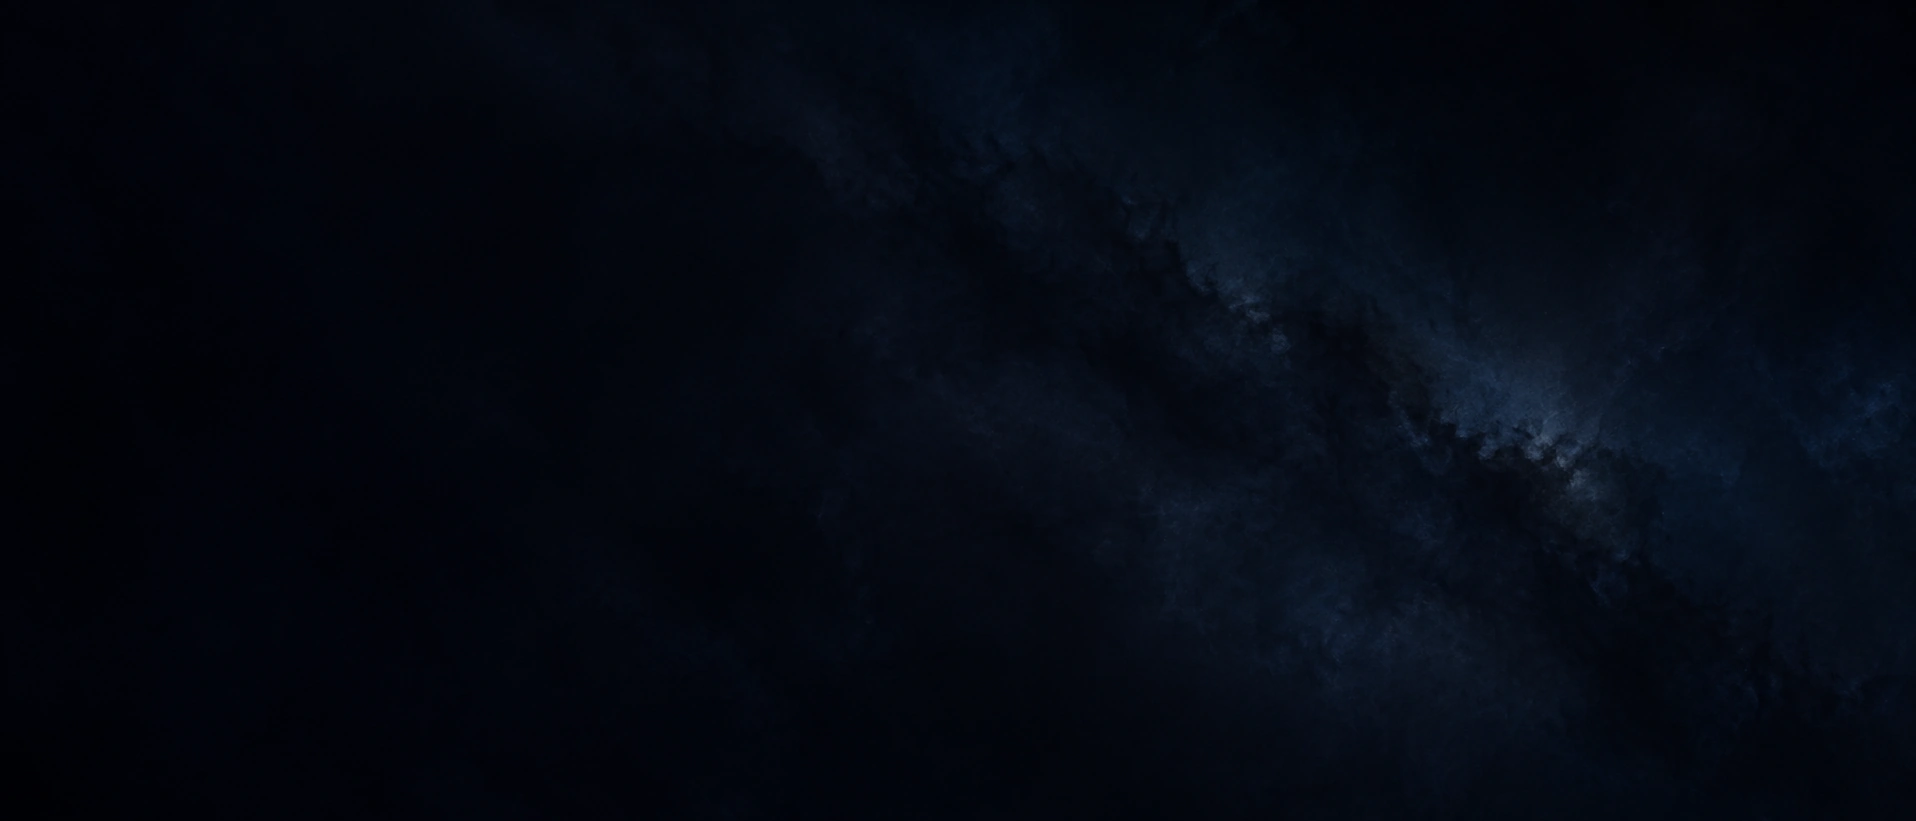
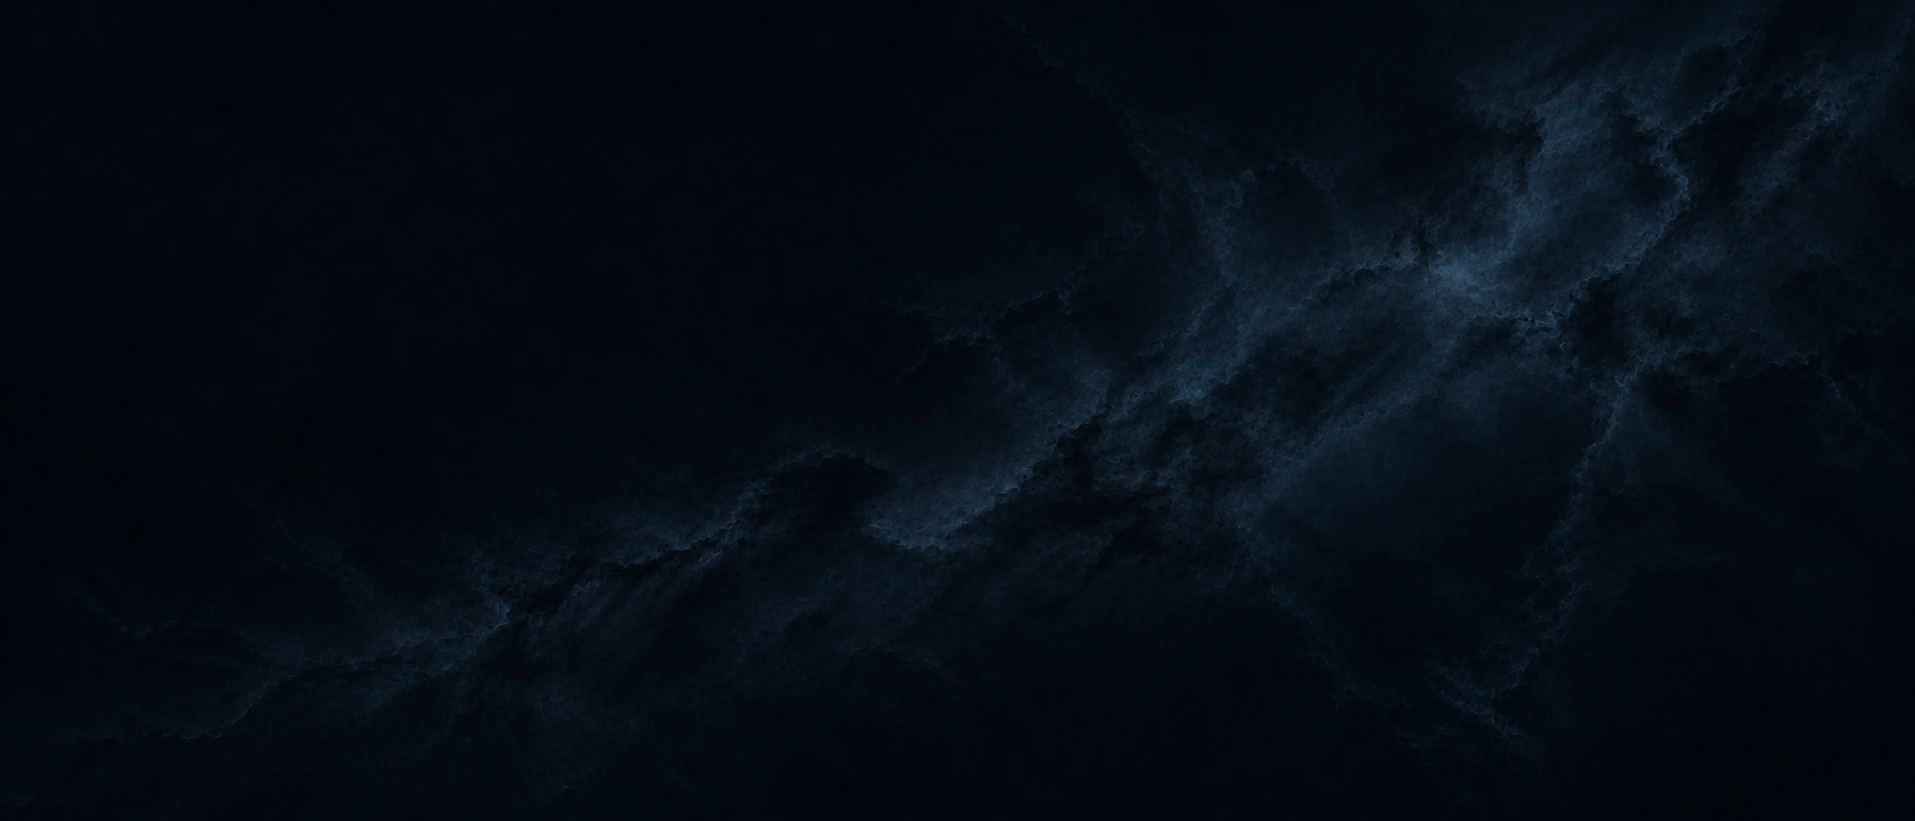
The sky hangs at its own size instead of being blown up to fill the screen
New backdrop, and a different way of placing it. The picture is
1915x821. Covering a full screen meant scaling it up by whatever the
screen's height demanded — 1.32x on a 1920x1080 window, 1.58x on a
2560x1300 one, and double that again on a retina display, where 3x is
where dust stops looking like dust.

It no longer covers. It hangs at its own shape across the full width
and dissolves into the page's dark below, which is where .bottomFade
was taking it anyway. A narrow screen would be left with a strip of sky
over a lot of nothing, so below 68% of the screen's height it covers as
before.

  viewport     picture      now     was
  2560x1300    2560x1098    1.34x   1.58x
  1920x1080    1920x823     1.00x   1.32x
  1440x820     1440x617     0.75x   1.00x
  390x844      390x574      0.70x   1.03x

A hard cut at the picture's edge is visible against the flat fill once
the gamma is lifted, so the picture is masked out over its last 180px
instead. --scene-aspect is handed to the CSS from SKY_IMAGE so the two
cannot drift apart, and `sizes` is now plainly 100vw: it described a
crop that no longer happens, and `unoptimized` means no srcset is built
from it either.

The source is still 1915x821, not the 3840 asked for, so a retina
screen still interpolates. Its height is the binding constraint: 821px
against the 2600 device pixels a 1300px-tall window wants.

Claude-Session: https://claude.ai/code/session_017HT7YzsRfkA3pBgA4V5pjH

diff --git a/src/components/society/discover/skySeats.ts b/src/components/society/discover/skySeats.ts
@@ -11,7 +11,7 @@
  * covers the frame evenly without falling into a grid and leaves every star
  * room for its name. scripts/make-sky-seats.mjs makes them.
  */
-export const SKY_IMAGE = { width: 1916, height: 821 } as const;
+export const SKY_IMAGE = { width: 1915, height: 821 } as const;
 
 export const SKY_SEATS: readonly (readonly [number, number, number])[] = [
 [0.0199,0.1206,1],[0.8035,0.7479,0.99],[0.3296,0.9989,0.99],[0.1324,0.6206,0.99],[0.2068,0.9193,0.99],[0.7399,0.419,0.98],[0.048,0.3333,0.98],[0.8232,0.5837,0.98],[0.8296,0.8958,0.97],[0.9687,0.0149,0.97],[0.2035,0.0449,0.97],[0.789,0.7805,0.96],[0.7271,0.5105,0.96],[0.1194,0.2688,0.96],[0.8846,0.7838,0.96],[0.9018,0.2804,0.95],[0.3043,0.2318,0.95],[0.574,0.0611,0.95],[0.646,0.0389,0.95],[0.7704,0.9505,0.95],[0.1379,0.1697,0.94],[0.3391,0.3162,0.94],[0.0024,0.4831,0.94],[0.1109,0.9115,0.94],[0.3893,0.6394,0.94],[0.6839,0.1703,0.94],[0.9264,0.3176,0.93],[0.7365,0.0399,0.93],[0.9639,0.0961,0.93],[0.85,0.599,0.93],[0.9967,0.9353,0.93],[0.9304,0.0707,0.93],[0.18,0.0061,0.93],[0.6985,0.2086,0.93],[0.2387,0.6479,0.92],[0.6998,0.017,0.92],[0.8385,0.991,0.92],[0.6218,0.1051,0.91],[0.5393,0.8539,0.91],[0.1814,0.9834,0.91],[0.4898,0.2656,0.91],[0.246,0.3918,0.91],[0.0797,0.7066,0.91],[0.661,0.2905,0.91],[0.495,0.4687,0.9],[0.3794,0.2212,0.9],[0.613,0.749,0.9],[0.7214,0.787,0.89],[0.1441,0.7353,0.88],[0.2996,0.7773,0.88],[0.8882,0.8851,0.87],[0.7157,0.0586,0.87],[0.565,0.4844,0.86],[0.1428,0.5006,0.86],[0.2075,0.7094,0.86],[0.5944,0.2952,0.86],[0.581,0.994,0.86],[0.2058,0.3462,0.85],[0.3397,0.2512,0.85],[0.6354,0.2543,0.85],[0.9875,0.7211,0.85],[0.5134,0.5513,0.85],[0.0605,0.2915,0.85],[0.635,0.8688,0.85],[0.6,0.1738,0.85],[0.6291,0.0628,0.85],[0.9351,0.2008,0.84],[0,0.1507,0.84],[0.9875,0.8003,0.84],[0.7662,0.7956,0.84],[0.9543,0.693,0.83],[0.288,0.6642,0.83],[0.0517,0.8165,0.83],[0.2035,0.2103,0.83],[0.1946,0.4259,0.82],[0.2299,0.422,0.82],[0.9052,0.5354,0.82],[0.9358,0.6744,0.82],[0.003,0.378,0.82],[0.6947,0.7201,0.81],[0.5219,0.996,0.81],[0.5239,0.6175,0.81],[0.405,0.0812,0.81],[0.1371,0.0505,0.8],[0.6151,0.0188,0.8],[0.3826,0.4627,0.8],[0.0812,0.5149,0.8],[0.2382,0.2601,0.8],[0.5827,0.7761,0.79],[0.1001,0.4553,0.79],[0.866,0.4019,0.79],[0.9268,0.4253,0.79],[0.4881,0.135,0.79],[0.5784,0.3297,0.79],[0.5035,0.101,0.78],[0.0982,0.6902,0.78],[0.2281,0.8298,0.78],[0.6523,0.971,0.78],[0.4738,0.8734,0.78],[0.817,0.0251,0.77],[0.9168,0.1795,0.77],[0.8803,0.9757,0.77],[0.284,0.9492,0.76],[0.8079,0.0655,0.76],[0.9214,0.9981,0.76],[0.7049,0.0994,0.76],[0.992,0.9812,0.75],[0.537,0.4936,0.75],[0.7133,0.5728,0.75],[0.0129,0.6838,0.75],[0.484,0.0559,0.75],[0.2641,0.6406,0.75],[0.5265,0.3072,0.75],[0.3294,0.7498,0.74],[0.2337,0.1532,0.74],[0.345,0.0553,0.74],[0.7138,0.9033,0.74],[0.1631,0.5672,0.74],[0.7665,0.3002,0.73],[0.5295,0.0656,0.73],[0.1024,0.766,0.73],[0.0685,0.3587,0.73],[0.8571,0.7208,0.73],[0.5314,0.9527,0.73],[0.0035,0.7311,0.73],[0.1602,0.5207,0.73],[0.6955,0.9929,0.72],[0.3452,0.687,0.72],[0.8303,0.7841,0.72],[0.3026,0.183,0.72],[0.595,0.2373,0.72],[0.2176,0.3822,0.72],[0.9548,0.1391,0.72],[0.6285,0.6944,0.72],[0.4923,0.6498,0.72],[0.5476,0.1436,0.72],[0.7697,0.2454,0.71],[0.1736,0.4742,0.71],[0.4908,0.1943,0.71],[0.0761,0.8089,0.71],[0.356,0.5118,0.71],[0.8148,0.1141,0.71],[0.6,0.6343,0.7],[0.03,0.0681,0.7],[0.7932,0.5208,0.7],[0.5484,0.6905,0.7],[0.2027,0.4705,0.69],[0.7343,0.6095,0.69],[0.489,0.8098,0.69],[0.5608,0.3861,0.68],[0.0375,0.8992,0.68],[0.437,0.8021,0.68],[0.2902,0.6155,0.68],[0.327,0.7034,0.68],[0.0388,0.0273,0.68],[0.4818,0.7264,0.68],[0.2152,0.602,0.68],[0.3077,0.7324,0.67],[0.1665,0.72,0.67],[0.6098,0.3266,0.67],[0.0001,0.7871,0.66],[0.021,0.9721,0.65],[0.4389,0.6739,0.65],[0.7738,0.0197,0.65],[0.9386,0.8664,0.65],[0.7772,0.653,0.65],[0.9697,0.8217,0.65],[0.8945,0.9294,0.65],[0.4261,0.8833,0.65],[0.8853,0.1058,0.65],[0.7482,0.2109,0.64],[0.6626,0.4487,0.64],[0.2464,0.194,0.64],[0.0512,0.7632,0.64],[0.6366,0.421,0.63],[0.0805,0.1554,0.63],[0.9442,0.5338,0.63],[0.9814,0.2132,0.63],[0.3581,0.0077,0.62],[0.0972,0.5654,0.62],[0.6763,0.3902,0.62],[0.5311,0.6608,0.62],[0.6545,0.385,0.62],[0.4243,0.2899,0.62],[0.9261,0.132,0.62],[0.5654,0.8059,0.62],[0.588,0.8969,0.61],[0.7092,0.5284,0.61],[0.2894,0.5292,0.61],[0.8951,0.6395,0.61],[0.8824,0.4332,0.61],[0.9501,0.8047,0.61],[0.5047,0.6045,0.61],[0.9893,0.8506,0.61],[0.5831,0.6031,0.6],[0.9697,0.4673,0.6],[0.3486,0.7428,0.6],[0.4601,0.0361,0.6],[0.4013,0.9698,0.6],[0.535,0.2517,0.6],[0.6217,0.4823,0.6],[0.9096,0.9615,0.6],[0.2946,0.4035,0.59],[0.9279,0.8138,0.59],[0.7938,0.4158,0.59],[0.4472,0.5465,0.59],[0.8675,0.6455,0.59],[0.1237,0.5756,0.58],[0.3957,0.6929,0.58],[0.752,0.6396,0.58],[0.3734,0.1236,0.58],[0.9181,0.226,0.57],[0.4743,0.4703,0.57],[0.1865,0.5756,0.57],[0.3879,0.7401,0.57],[0.3138,0.3944,0.57],[0.9889,0.5454,0.57],[0.177,0.8937,0.56],[0.7313,0.095,0.56],[0.7312,0.8526,0.56],[0.8006,0.8171,0.56],[0.8481,0.2162,0.56],[0.3836,0.9366,0.56],[0.5221,0.4278,0.56],[0.1341,0.8815,0.56],[0.7865,0.923,0.56],[0.0529,0.4696,0.55],[0.2139,0.2689,0.55],[0.8912,0.8329,0.55],[0.4144,0.4755,0.55],[0.961,0.2677,0.55],[0.5429,0.5394,0.54],[0.3152,0.6511,0.54],[0.0003,0.9488,0.54],[0.7351,0.5519,0.54],[0.5376,0.8058,0.54],[0.7095,0.8237,0.54],[0.4323,0.4055,0.54],[0.0827,0.3205,0.54],[0.9543,0.4201,0.53],[0.1788,0.2252,0.53],[0.6214,0.5472,0.53],[0.3135,0.9551,0.53],[0.1318,0.2326,0.52],[0.8224,0.7328,0.52],[0.2574,0.2436,0.52],[0.4341,0.068,0.52],[0.6753,0.7243,0.52],[0.0366,0.6087,0.52],[0.0889,0.4007,0.52],[0.4636,0.572,0.52],[0.0472,0.3983,0.52],[0.6707,0.2467,0.52],[0.1397,0.5459,0.51],[0.5102,0.6952,0.51],[0.5056,0.9628,0.51],[0.716,0.6601,0.51],[0.6438,0.0952,0.51],[0.8362,0.1232,0.51],[0.7088,0.9508,0.51],[0.6596,0.9268,0.51],[0.7494,0.1187,0.51],[0.2799,0.0132,0.51],[0.9155,0.6518,0.51],[0.4036,0.8328,0.5],[0.6443,0.5431,0.5],[0.0233,0.8079,0.5],[0.0635,0.8892,0.5],[0.3654,0.6992,0.49],[0.4401,0.0143,0.49],[0.2263,0.198,0.49],[0.4788,0.967,0.48],[0.0045,0.2702,0.48],[0.9399,0.6289,0.48],[0.7161,0.7169,0.48],[0.2619,0.9971,0.48],[0.5454,0.4504,0.48],[0.3252,0.0753,0.48],[0.3557,0.346,0.48],[0.9031,0.0826,0.47],[0.2635,0.4264,0.47],[0.5396,0.5849,0.47],[0.449,0.3763,0.47],[0.3002,0.4856,0.47],[0.4253,0.751,0.47],[0.4464,0.327,0.47],[0.8316,0.441,0.47],[0.5745,0.2473,0.47],[0.2095,0.6517,0.47],[0.5616,0.5725,0.47],[0.555,0.9849,0.46],[0.2034,0.9891,0.46],[0.0644,0.0188,0.46],[0.3111,0.5978,0.46],[0.1133,0.3531,0.45],[0.3537,0.6367,0.45],[0.8735,0.2286,0.45],[0.7049,0.293,0.45],[0.7656,0.8828,0.45],[0.4554,0.495,0.45],[0.3982,0.4011,0.45],[0.7305,0.461,0.45],[0.024,0.1961,0.44],[0.4224,0.9967,0.44],[0.61,0.6779,0.44],[0.2572,0.3537,0.44],[0.5617,0.2946,0.44],[0.5375,0.904,0.43],[0.4147,0.0097,0.43],[0.5538,0.1899,0.43],[0.8453,0.5508,0.43],[0.3355,0.6183,0.43],[0.3542,0.5591,0.43],[0.464,0.997,0.43],[0.3755,0.3217,0.43],[0.8775,0.0481,0.43],[0.0904,0.2331,0.43],[0.5859,0.8259,0.43],[0.8146,0.2684,0.43],[0.2267,0.0248,0.43],[0.3765,0.3674,0.43],[0.0574,0.5842,0.43],[0.7514,0.8389,0.43],[0.2489,0.0929,0.43],[0.6473,0.4798,0.43],[0.2939,0.1005,0.43],[0.3813,0.9997,0.42],[0.1694,0.3358,0.42],[0.8529,0.2862,0.42],[0.0693,0.9405,0.42],[0.953,0.5792,0.42],[0.5673,0.1522,0.42],[0.7874,0.0921,0.42],[0.3317,0.841,0.42],[0.5911,0.6997,0.42],[0.2944,0.8415,0.42],[0.1193,0.1923,0.42],[0.5134,0.1921,0.42],[0.8043,0.4794,0.42],[0.3547,0.9869,0.42],[0.4676,0.1599,0.42],[0.2501,0.9607,0.42],[0.3989,0.2552,0.42],[0.7248,0.3292,0.41],[0.6297,0.7972,0.41],[0.4014,0.3006,0.41],[0.5541,0.9313,0.41],[0.941,0.2544,0.41],[0.3294,0.3556,0.41],[0.2324,0.5656,0.4],[0.8988,0.2174,0.4],[0.9183,0.4676,0.4],[0.1643,0.3943,0.4],[0.3223,0.2085,0.4],[0.6584,0.6047,0.4],[0.5703,0.107,0.4],[0.9729,0.5828,0.4],[0.7826,0.5997,0.4],[0.9059,0.7099,0.4],[0.8579,0.9817,0.4],[0.1048,0.972,0.4],[0.9713,0.3526,0.39],[0.5491,0.0791,0.39],[0.4883,0.0079,0.39],[0.5396,0.0157,0.39],[0.1077,0.8465,0.39],[0.8333,0.5134,0.39],[0.3556,0.4629,0.39],[0.6857,0.6706,0.39],[0.1237,0.4705,0.39],[0.9888,0.4888,0.39],[0.4283,0.1447,0.39],[0.1209,0.5256,0.39],[0.6047,0.8069,0.38],[0.0802,0.0834,0.38],[0.791,0.2719,0.38],[0.0117,0.4403,0.38],[0.9104,0.8496,0.38],[0.9299,0.0111,0.38],[0.0335,0.4595,0.38],[0.0253,0.5217,0.38],[0.0657,0.4152,0.38],[0.0113,0.0536,0.38],[0.189,0.8529,0.38],[0.4224,0.6503,0.38],[0.4504,0.2042,0.38],[0.7495,0.4805,0.38],[0.3874,0.5319,0.38],[0.6532,0.1523,0.37],[0.1314,0.328,0.37],[0.1028,0.0012,0.37],[0.0426,0.1498,0.37],[0.5821,0.4046,0.37],[0.689,0.7788,0.37],[0.5037,0.3777,0.37],[0.2543,0.5924,0.37],[0.5028,0.8477,0.37],[0.9994,0.7618,0.37],[0.6086,0.3725,0.37],[0.8599,0.351,0.37],[0.0625,0.6304,0.36],[0.2661,0.0569,0.36],[0.735,0.7494,0.36],[0.678,0.0516,0.36],[0.3341,0.5694,0.36],[0.3231,0.7927,0.36],[0.724,0.384,0.36],[0.2775,0.4698,0.36],[0.4099,0.2126,0.36],[0.9661,0.524,0.36],[0.8094,0.3172,0.36],[0.1131,0.0448,0.36],[0.9366,0.752,0.36],[0.5696,0.5303,0.36],[0.7361,0.6808,0.36],[0.5797,0.9412,0.36],[0.9353,0.9543,0.36],[0.866,0.5244,0.35],[0.7172,0.1534,0.35],[0.9246,0.5329,0.35],[0.9415,0.3702,0.35],[0.2784,0.5732,0.35],[0.875,0.1601,0.35],[0.2665,0.1997,0.35],[0.4226,0.7012,0.35],[0.6764,0.9684,0.35],[0.3324,0.4143,0.35],[0.2916,0.9982,0.35],[0.3571,0.1923,0.35],[0.9745,0.9488,0.35],[0.8982,0.5796,0.35],[0.6355,0.739,0.35],[0.101,0.6379,0.35],[0.8851,0.5421,0.35],[0.5805,0.1879,0.35],[0.0538,0.1088,0.35],[0.0936,0.1184,0.35],[0.0773,0.9909,0.34],[0.0333,0.6598,0.34],[0.3131,0.8954,0.34],[0.4345,0.6112,0.34],[0.8746,0.9258,0.34],[0.1579,0.9067,0.34],[0.1669,0.278,0.34],[0.997,0.3492,0.34],[0.6296,0.1707,0.34],[0.2789,0.7089,0.34],[0.9013,0.4106,0.34],[0.3732,0.0642,0.34],[0.2553,0.1426,0.34],[0.8311,0.6563,0.34],[0.7559,0.5878,0.34],[0.777,0.5519,0.34],[0.6877,0.4292,0.34],[0.1882,0.9404,0.34],[0.2712,0.7613,0.34],[0.6167,0.2422,0.34],[0.9813,0.4034,0.34],[0.6644,0.5332,0.34],[0.458,0.6178,0.33],[0.6684,0.0035,0.33],[0.086,0.6066,0.33],[0.5775,0.0116,0.33],[0.7601,0.7036,0.33],[0.0028,0.5791,0.33],[0.8341,0.3147,0.33],[0.6597,0.7657,0.33],[0.3816,0.7876,0.33],[0.368,0.751,0.33],[0.9912,0.1741,0.33],[0.5898,0.4874,0.33],[0.1747,0.0563,0.33],[0.5881,0.5557,0.33],[0.047,0.5169,0.33],[0.7933,0.0302,0.33],[0.8121,0.9861,0.33],[0.7928,0.8656,0.32],[0.872,0.6916,0.32],[0.878,0.594,0.32],[0.7477,0.9277,0.32],[0.5172,0.8152,0.32],[0.9414,0.9997,0.32],[0.0784,0.4496,0.32],[0.9954,0.4348,0.32],[0.451,0.9193,0.32],[0.8446,0.384,0.32],[0.7327,0.1807,0.32],[0.6136,0.8988,0.32],[0.3073,0.3466,0.32],[0.2836,0.3533,0.32],[0.7283,0.9408,0.32],[0.4589,0.684,0.32],[0.859,0.0092,0.32],[0.8874,0.3728,0.32],[0.158,0.671,0.32],[0.4237,0.5265,0.32],[0.1883,0.6765,0.32],[0.8285,0.0772,0.32],[0.407,0.5797,0.32],[0.0026,0.0122,0.32],[0.0499,0.934,0.32],[0.5942,0.1064,0.32],[0.2904,0.9059,0.32],[0.811,0.8818,0.32],[0.4432,0.9879,0.32],[0.9026,0.0089,0.32],[0.5135,0.9119,0.32],[0.0071,0.6344,0.31],[0.2479,0.3094,0.31],[0.3657,0.9184,0.31],[0.0953,0.1864,0.31],[0.7518,0.0099,0.31],[0.5563,0.6167,0.31],[0.0307,0.3731,0.31],[0.8463,0.0536,0.31],[0.8109,0.5484,0.31],[0.7928,0.1993,0.31],[0.7599,0.752,0.31],[0.9023,0.1484,0.31],[0.565,0.4341,0.31],[0.4919,0.9218,0.31],[0.0215,0.9255,0.31],[0.1265,0.6666,0.31],[0.0012,0.1048,0.31],[0.7884,0.997,0.31],[0.5094,0.5047,0.31],[0.3476,0.1087,0.31],[0.2287,0.9104,0.31],[0.3934,0.0166,0.31],[0.3116,0.285,0.31],[0.7329,0.9939,0.31],[0.4691,0.419,0.31],[0.1884,0.1009,0.31],[0.4352,0.2496,0.31],[0.7143,0.4358,0.31],[0.8704,0.469,0.3],[0.6009,0.8569,0.3],[0.4381,0.4488,0.3],[0.1597,0.2098,0.3],[0.6998,0.4687,0.3],[0.8494,0.6788,0.3],[0.9154,0.8989,0.3],[0.6076,0.5143,0.3],[0.5969,0.0576,0.3],[0.4091,0.7803,0.3],[0.6288,0.9947,0.3],[0.2234,0.985,0.3],[0.3553,0.8221,0.3],[0.9413,0.4626,0.3],[0.7698,0.4637,0.3],[0.9132,0.3571,0.3],[0.8563,0.9012,0.3],[0.1449,0.2849,0.3],[0.9864,0.1023,0.3],[0.9029,0.7677,0.3],[0.853,0.8127,0.3],[0.3524,0.3941,0.3],[0.6088,0.9501,0.3],[0.893,0.4904,0.3],[0.0611,0.1657,0.3],[0.0761,0.5605,0.3],[0.9933,0.0334,0.3],[0.8191,0.1809,0.3],[0.5687,0.9006,0.3],[0.4675,0.7706,0.3],[0.1022,0.3137,0.3],[0.1493,0.1151,0.3],[0.7438,0.3488,0.3],[0.3148,0.1266,0.3],[0.194,0.2822,0.3],[0.7999,0.1562,0.3],[0.3341,0.4875,0.3],[0.6228,0.6369,0.3],[0.8662,0.8526,0.3],[0.283,0.2262,0.3],[0.5706,0.7021,0.3],[0.2634,0.9023,0.3],[0.2817,0.1601,0.3],[0.508,0.7603,0.3],[0.0792,0.2754,0.3],[0.4993,0.326,0.3],[0.0887,0.8565,0.3],[0.2152,0.5115,0.3],[0.2628,0.8483,0.3],[0.5119,0.2403,0.3],[0.0886,0.9197,0.3],[0.9636,0.8711,0.3],[0.0369,0.2439,0.3],[0.2255,0.7708,0.3],[0.6379,0.3138,0.3],[0.8328,0.245,0.3],[0.7248,0.2337,0.3],[0.9594,0.3167,0.3],[0.1489,0.0081,0.3],[0.3718,0.5864,0.3],[0.9503,0.0522,0.3],[0.9857,0.2755,0.3],[0.5468,0.3269,0.3],[0.2886,0.275,0.3],[0.3146,0.5463,0.3],

diff --git a/src/components/society/discover/SocietySky.tsx b/src/components/society/discover/SocietySky.tsx
@@ -29,8 +29,9 @@ const SECTIONS: { id: SocietyTabId; label: string }[] = [
  */
 const SCENE = "/images/society/society_space.webp";
 /** The scene at 96×41, softened: shows at once while the picture loads. */
[1 lines of base64/hex data omitted]
-/** Its own shape: below this the picture fills the height instead of the width. */
[1 lines of base64/hex data omitted]
+/** Its own shape, handed to the CSS as --scene-aspect: how tall the picture
+ *  hangs at full width, before it has to start covering (SocietySky.module.css). */
 const SCENE_ASPECT = SKY_IMAGE.width / SKY_IMAGE.height;
 /** Across the picture's crop: keeps the dust a little right of centre on any screen shape. */
 const SCENE_X = 0.64;
@@ -353,7 +354,13 @@ export default function SocietySky({
       : [];
 
   return (
-    <section ref={sectionRef} data-glide-sky="" className={styles.sky} aria-label={copy("Constellations")}>
+    <section
+      ref={sectionRef}
+      data-glide-sky=""
+      className={styles.sky}
+      style={{ "--scene-aspect": SCENE_ASPECT } as CSSProperties}
+      aria-label={copy("Constellations")}
+    >
       <div ref={stageRef} className={styles.stage}>
         <div ref={worldRef} className={styles.world}>
           <div className={styles.scene} aria-hidden="true">
@@ -369,7 +376,7 @@ export default function SocietySky({
               unoptimized
               placeholder={SCENE_PREVIEW}
               style={{ objectFit: "cover", objectPosition: `${SCENE_X * 100}% 50%` }}
-              sizes={`(max-aspect-ratio: ${Math.round(SCENE_ASPECT * 100)}/100) ${Math.round(SCENE_ASPECT * 100)}vh, 100vw`}
+              sizes="100vw"
             />
           </div>
 

diff --git a/src/components/society/discover/SocietySky.module.css b/src/components/society/discover/SocietySky.module.css
@@ -35,11 +35,22 @@
   height: var(--screen);
 }
 
-/* Deep space, filling the screen. */
+/* Deep space. The picture is 1915x821, so making it cover a tall screen
+   means scaling it up two or three times and the dust falls apart. Instead
+   it hangs at its own shape across the full width — 1:1 on a 1920 screen —
+   and dissolves into the page's dark below, which is where the picture was
+   headed anyway (.bottomFade). A narrow screen would be left with a strip
+   of sky above a lot of nothing, so under that floor it covers as before.
+   --scene-aspect comes from SKY_IMAGE so the two cannot drift apart. */
 .scene {
   position: absolute;
-  inset: 0;
+  top: 0;
+  right: 0;
+  left: 0;
+  height: max(68%, min(100%, calc(100vw / var(--scene-aspect))));
   background: #02060d;
+  -webkit-mask-image: linear-gradient(to bottom, #000 calc(100% - 180px), transparent 100%);
+  mask-image: linear-gradient(to bottom, #000 calc(100% - 180px), transparent 100%);
 }
 
 /* In the sky, the panel's side of it is a little darker so its text reads. */
